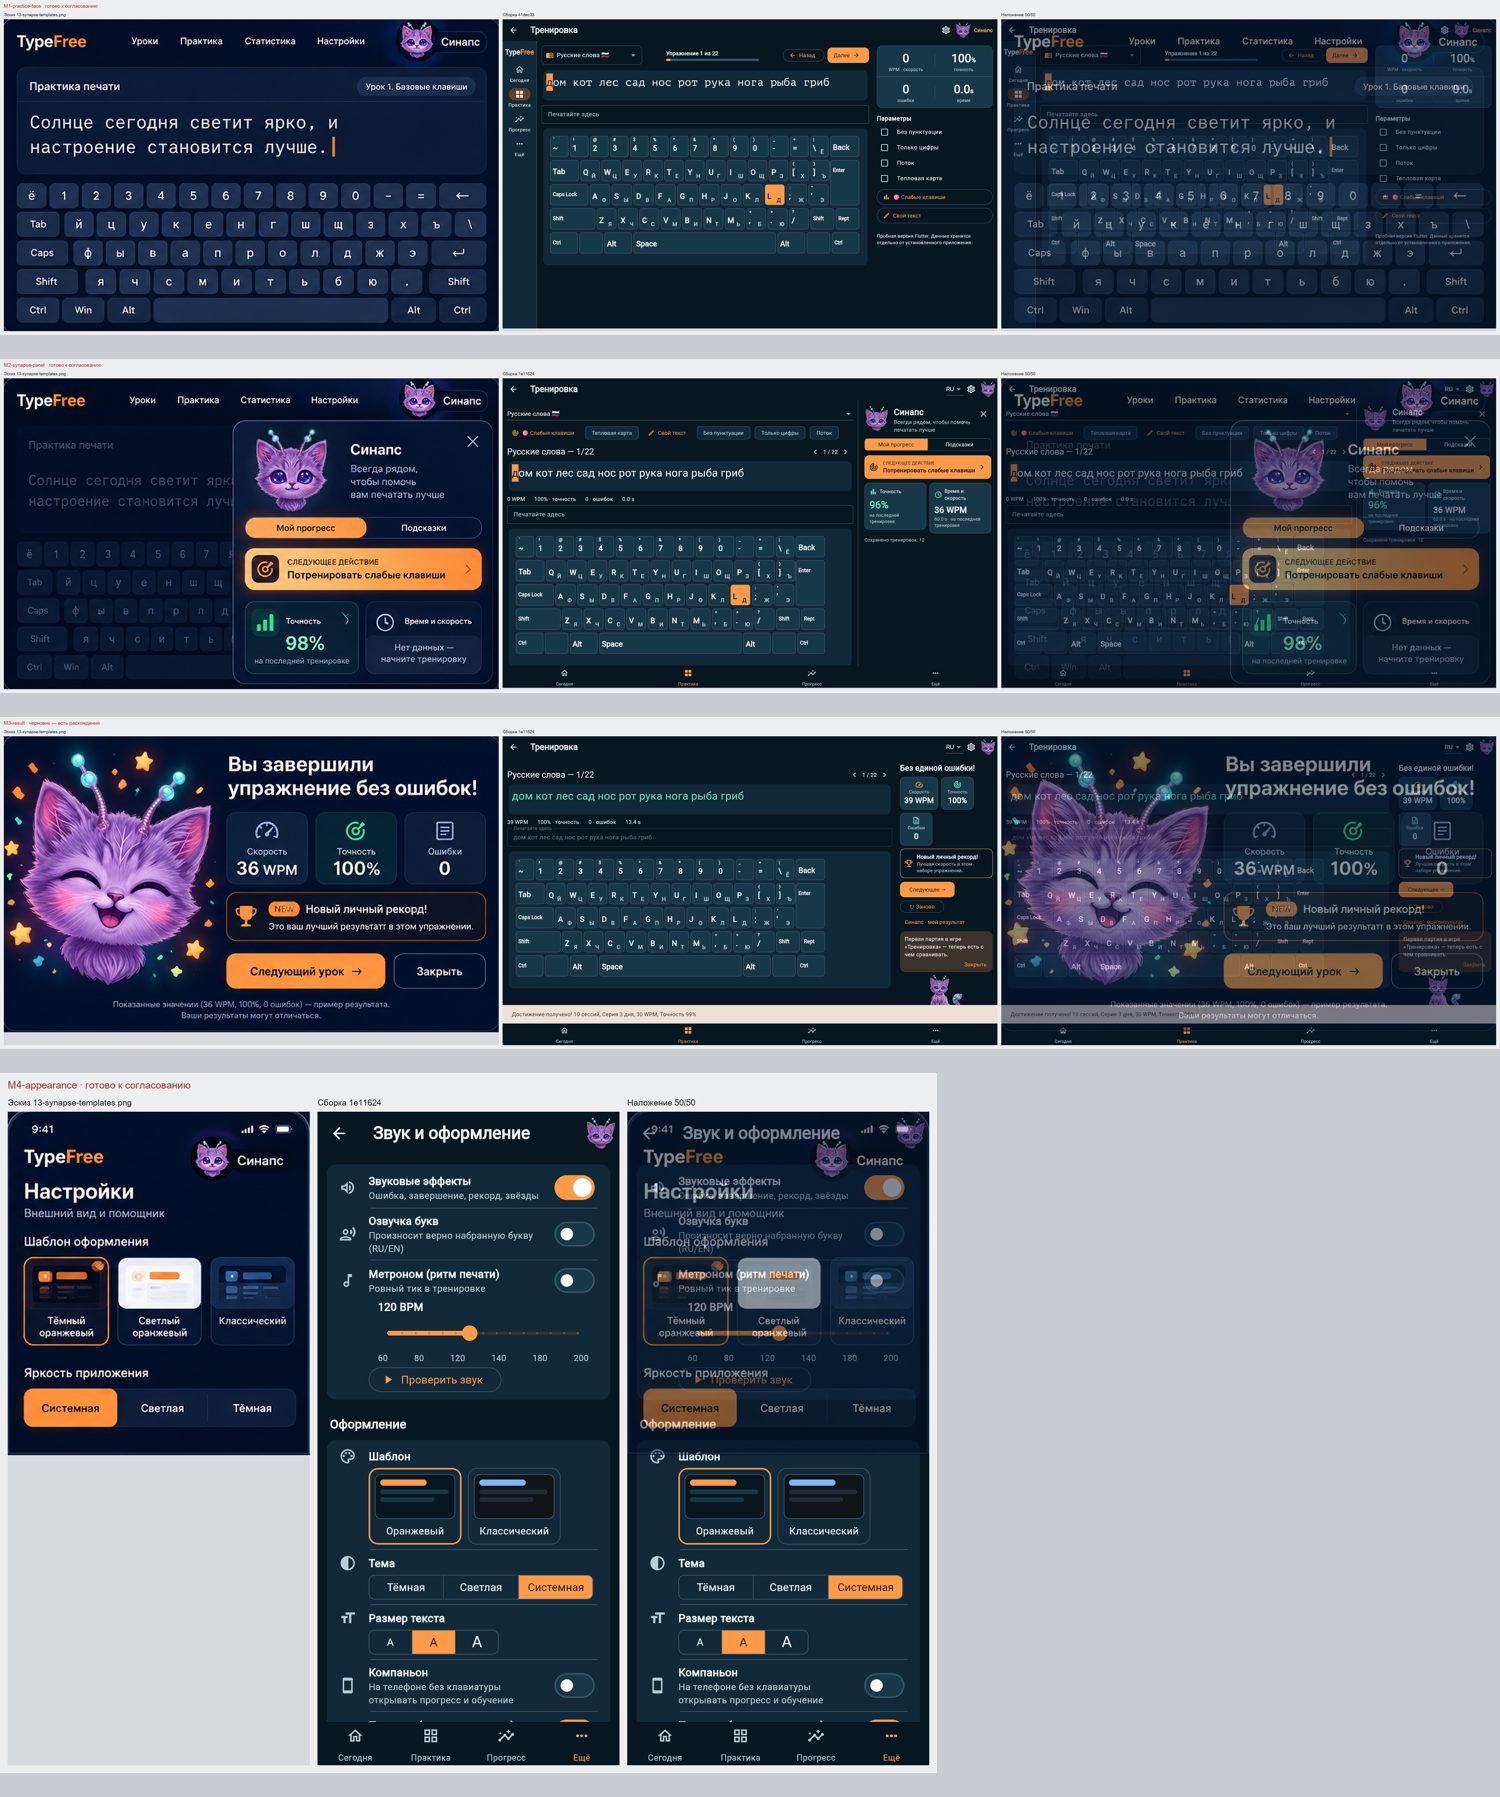
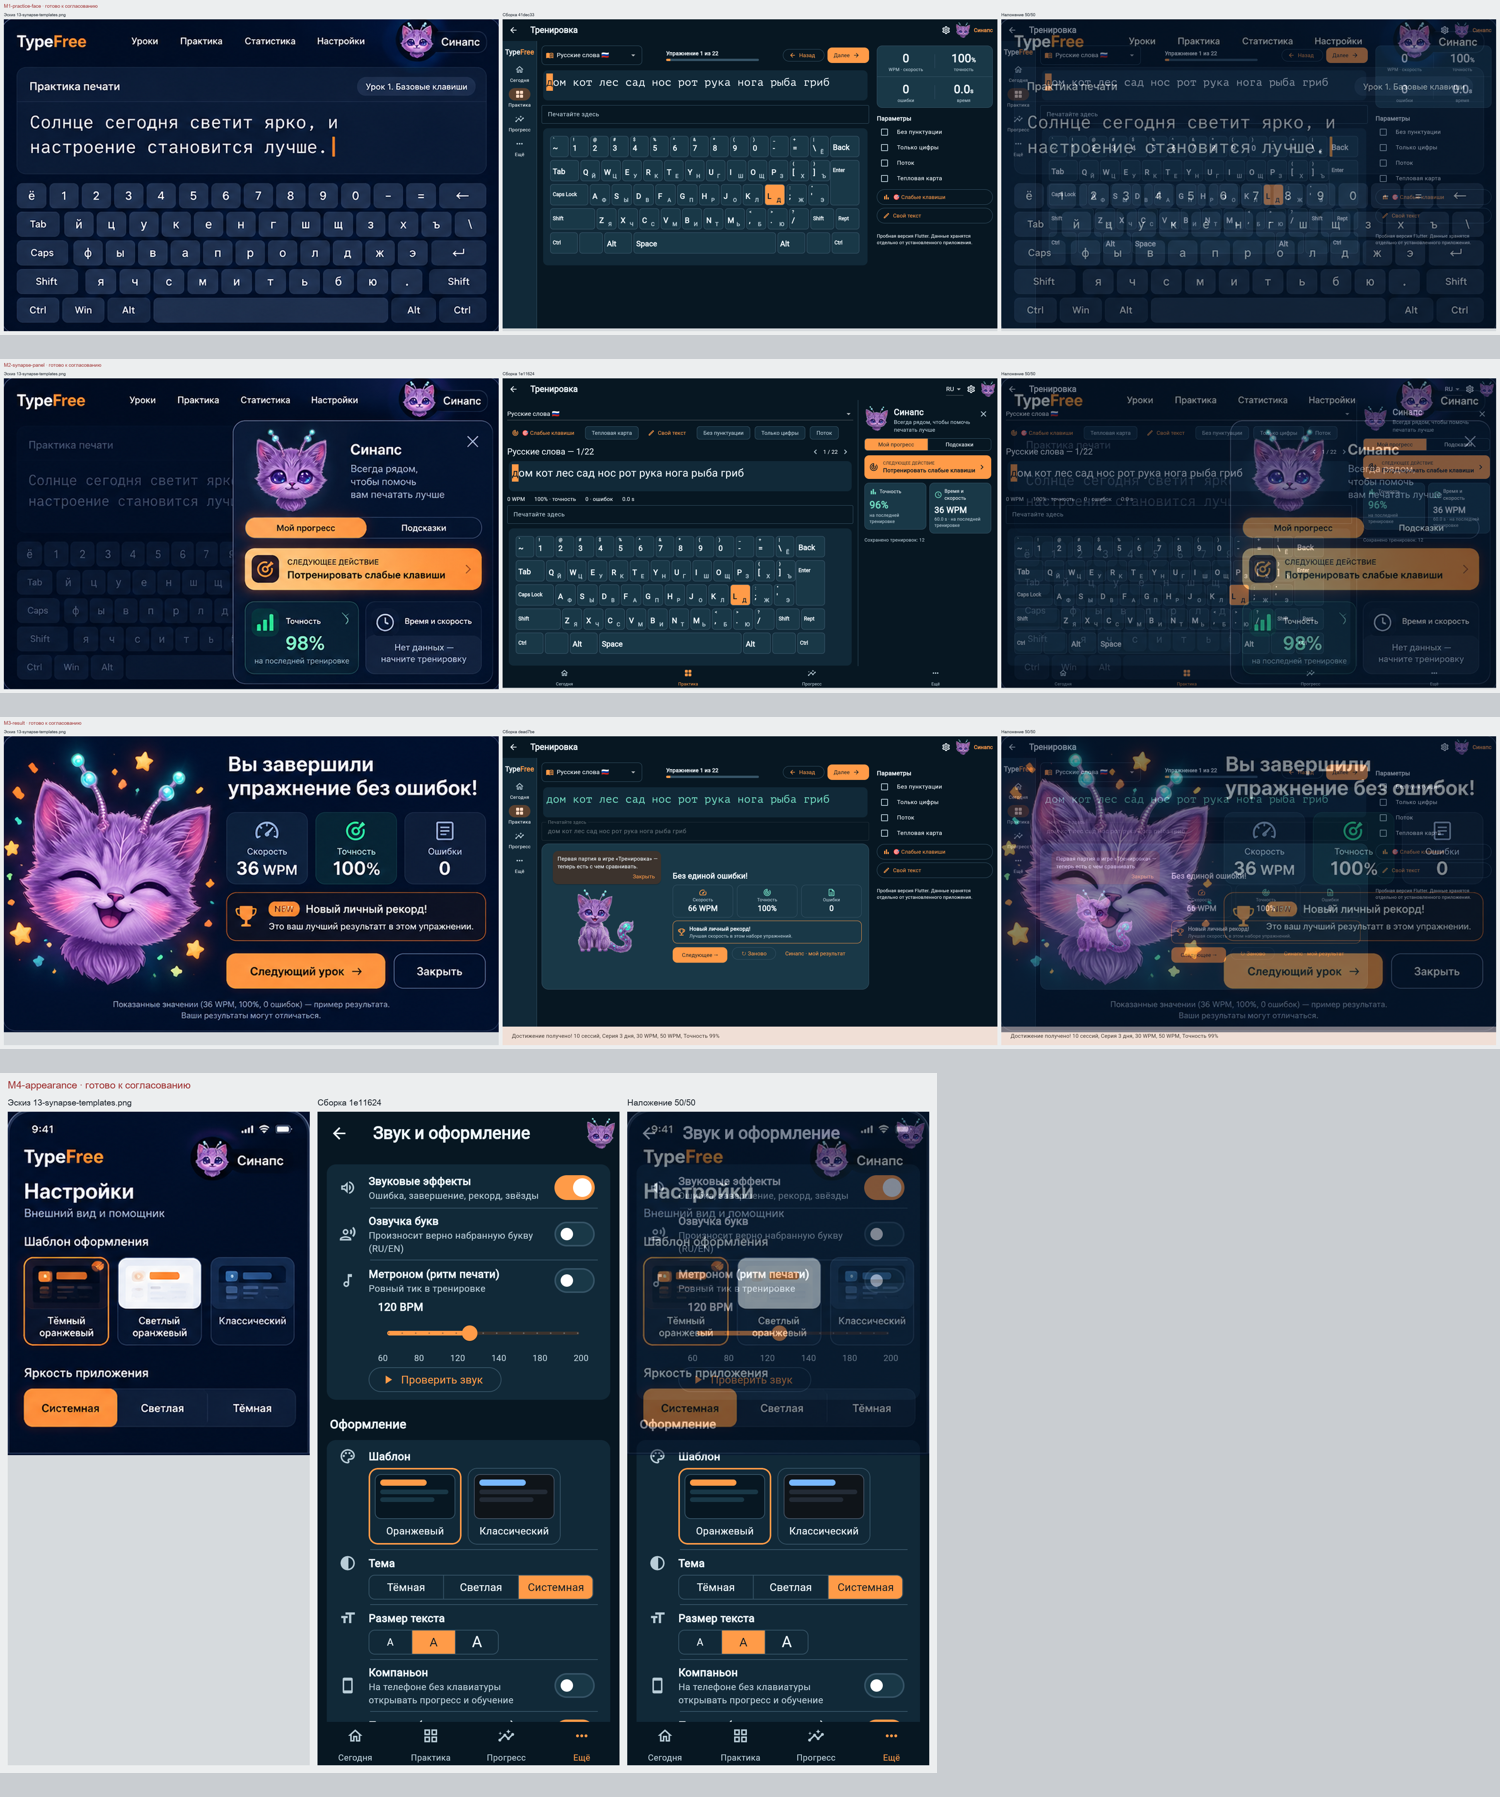
[Claude·MAC] design-acceptance: index after decisions

Changed region(s): [[0.3373, 0.4051, 1.0, 0.5921], [0.8893, 0.4051, 0.92, 0.4363]]

diff --git a/flutter/design-acceptance/INDEX_20261028.md b/flutter/design-acceptance/INDEX_20261028.md
@@ -19,13 +19,16 @@
 | B1-trainer-desktop | черновик — есть расхождения (история) | `a814c43` | [20261028-header-a814c43/B1-trainer-desktop](20261028-header-a814c43/B1-trainer-desktop/REPORT.md) |
 | B1-trainer-desktop | черновик — есть расхождения (история) | `4988a11` | [20261028-draftfix-4988a11/B1-trainer-desktop](20261028-draftfix-4988a11/B1-trainer-desktop/REPORT.md) |
 | B1-trainer-desktop | черновик — есть расхождения (история) | `41dec33` | [20261028-font-41dec33/B1-trainer-desktop](20261028-font-41dec33/B1-trainer-desktop/REPORT.md) |
-| B1-trainer-desktop | черновик — есть расхождения | `badb450` | [20261028-arrows-badb450/B1-trainer-desktop](20261028-arrows-badb450/B1-trainer-desktop/REPORT.md) |
+| B1-trainer-desktop | черновик — есть расхождения (история) | `badb450` | [20261028-arrows-badb450/B1-trainer-desktop](20261028-arrows-badb450/B1-trainer-desktop/REPORT.md) |
+| B1-trainer-desktop | готово к согласованию | `dead7be` | [20261029-decisions-dead7be/B1-trainer-desktop](20261029-decisions-dead7be/B1-trainer-desktop/REPORT.md) |
 | B2-trainer-web | черновик — есть расхождения (история) | `14e83ee` | [20261028-trainer-14e83ee/B2-trainer-web](20261028-trainer-14e83ee/B2-trainer-web/REPORT.md) |
 | B2-trainer-web | черновик — есть расхождения (история) | `a814c43` | [20261028-header-a814c43/B2-trainer-web](20261028-header-a814c43/B2-trainer-web/REPORT.md) |
 | B2-trainer-web | черновик — есть расхождения (история) | `4988a11` | [20261028-draftfix-4988a11/B2-trainer-web](20261028-draftfix-4988a11/B2-trainer-web/REPORT.md) |
-| B2-trainer-web | черновик — есть расхождения | `badb450` | [20261028-arrows-badb450/B2-trainer-web](20261028-arrows-badb450/B2-trainer-web/REPORT.md) |
+| B2-trainer-web | черновик — есть расхождения (история) | `badb450` | [20261028-arrows-badb450/B2-trainer-web](20261028-arrows-badb450/B2-trainer-web/REPORT.md) |
+| B2-trainer-web | готово к согласованию | `dead7be` | [20261029-decisions-dead7be/B2-trainer-web](20261029-decisions-dead7be/B2-trainer-web/REPORT.md) |
 | B3-trainer-landscape | черновик — есть расхождения (история) | `14e83ee` | [20261028-trainer-14e83ee/B3-trainer-landscape](20261028-trainer-14e83ee/B3-trainer-landscape/REPORT.md) |
-| B3-trainer-landscape | черновик — есть расхождения | `ea99bf9` | [20261028-repeat-ea99bf9/B3-trainer-landscape](20261028-repeat-ea99bf9/B3-trainer-landscape/REPORT.md) |
+| B3-trainer-landscape | черновик — есть расхождения (история) | `ea99bf9` | [20261028-repeat-ea99bf9/B3-trainer-landscape](20261028-repeat-ea99bf9/B3-trainer-landscape/REPORT.md) |
+| B3-trainer-landscape | готово к согласованию | `dead7be` | [20261029-decisions-dead7be/B3-trainer-landscape](20261029-decisions-dead7be/B3-trainer-landscape/REPORT.md) |
 | C1-library | готово к согласованию (история) | `dc28454` | [20261028-library-course-dc28454/C1-library](20261028-library-course-dc28454/C1-library/REPORT.md) |
 | C1-library | готово к согласованию | `a814c43` | [20261028-header-a814c43/C1-library](20261028-header-a814c43/C1-library/REPORT.md) |
 | C2-course-map | готово к согласованию (история) | `dc28454` | [20261028-library-course-dc28454/C2-course-map](20261028-library-course-dc28454/C2-course-map/REPORT.md) |
@@ -75,7 +78,8 @@
 | E6-exam-result | черновик — есть расхождения (история) | `a814c43` | [20261028-header-a814c43/E6-exam-result](20261028-header-a814c43/E6-exam-result/REPORT.md) |
 | E6-exam-result | готово к согласованию | `4988a11` | [20261028-draftfix-4988a11/E6-exam-result](20261028-draftfix-4988a11/E6-exam-result/REPORT.md) |
 | F1-progress | черновик — есть расхождения (история) | `0d5b808` | [20261028-progress-0d5b808/F1-progress](20261028-progress-0d5b808/F1-progress/REPORT.md) |
-| F1-progress | черновик — есть расхождения | `a814c43` | [20261028-header-a814c43/F1-progress](20261028-header-a814c43/F1-progress/REPORT.md) |
+| F1-progress | черновик — есть расхождения (история) | `a814c43` | [20261028-header-a814c43/F1-progress](20261028-header-a814c43/F1-progress/REPORT.md) |
+| F1-progress | готово к согласованию | `dead7be` | [20261029-decisions-dead7be/F1-progress](20261029-decisions-dead7be/F1-progress/REPORT.md) |
 | F1-progress-empty | готово к согласованию | `0d5b808` | [20261028-progress-0d5b808/F1-progress-empty](20261028-progress-0d5b808/F1-progress-empty/REPORT.md) |
 | F2-achievements | готово к согласованию (история) | `763e4f9` | [20261028-achievements-763e4f9/F2-achievements](20261028-achievements-763e4f9/F2-achievements/REPORT.md) |
 | F2-achievements | черновик — есть расхождения (история) | `a814c43` | [20261028-header-a814c43/F2-achievements](20261028-header-a814c43/F2-achievements/REPORT.md) |
@@ -108,12 +112,13 @@
 | M1-practice-face | черновик — есть расхождения (история) | `4988a11` | [20261028-draftfix-4988a11/M1-practice-face](20261028-draftfix-4988a11/M1-practice-face/REPORT.md) |
 | M1-practice-face | готово к согласованию | `41dec33` | [20261028-font-41dec33/M1-practice-face](20261028-font-41dec33/M1-practice-face/REPORT.md) |
 | M2-synapse-panel | готово к согласованию | `1e11624` | [20261028-synapse-1e11624/M2-synapse-panel](20261028-synapse-1e11624/M2-synapse-panel/REPORT.md) |
-| M3-result | черновик — есть расхождения | `1e11624` | [20261028-synapse-1e11624/M3-result](20261028-synapse-1e11624/M3-result/REPORT.md) |
+| M3-result | черновик — есть расхождения (история) | `1e11624` | [20261028-synapse-1e11624/M3-result](20261028-synapse-1e11624/M3-result/REPORT.md) |
+| M3-result | готово к согласованию | `dead7be` | [20261029-decisions-dead7be/M3-result](20261029-decisions-dead7be/M3-result/REPORT.md) |
 | M4-appearance | готово к согласованию | `1e11624` | [20261028-synapse-1e11624/M4-appearance](20261028-synapse-1e11624/M4-appearance/REPORT.md) |
 
 ## Покрытие всех 71 состояний атласа
 
-Итог: готово — 37 · нет — 23 · черновик — 11
+Итог: готово — 42 · нет — 23 · черновик — 6
 
 | состояние | что | статус / причина |
 |---|---|---|
@@ -123,9 +128,9 @@
 | A4 | Компаньон | готово к согласованию · [20261028-companion-d09c1b4/A4-companion](20261028-companion-d09c1b4/A4-companion/REPORT.md) |
 | A5 | Ещё | черновик — есть расхождения · [20261028-header-a814c43/A5-more](20261028-header-a814c43/A5-more/REPORT.md) |
 | A6 | Профиль и язык | черновик — есть расхождения · [20261028-menus-9d6917f/A6-profile-language](20261028-menus-9d6917f/A6-profile-language/REPORT.md) |
-| B1 | Тренировка desktop | черновик — есть расхождения · [20261028-arrows-badb450/B1-trainer-desktop](20261028-arrows-badb450/B1-trainer-desktop/REPORT.md) |
-| B2 | Полная страница тренажёра web | черновик — есть расхождения · [20261028-arrows-badb450/B2-trainer-web](20261028-arrows-badb450/B2-trainer-web/REPORT.md) |
-| B3 | Тренажёр landscape / внешняя клавиатура | черновик — есть расхождения · [20261028-repeat-ea99bf9/B3-trainer-landscape](20261028-repeat-ea99bf9/B3-trainer-landscape/REPORT.md) |
+| B1 | Тренировка desktop | готово к согласованию · [20261029-decisions-dead7be/B1-trainer-desktop](20261029-decisions-dead7be/B1-trainer-desktop/REPORT.md) |
+| B2 | Полная страница тренажёра web | готово к согласованию · [20261029-decisions-dead7be/B2-trainer-web](20261029-decisions-dead7be/B2-trainer-web/REPORT.md) |
+| B3 | Тренажёр landscape / внешняя клавиатура | готово к согласованию · [20261029-decisions-dead7be/B3-trainer-landscape](20261029-decisions-dead7be/B3-trainer-landscape/REPORT.md) |
 | C1 | Библиотека плейлистов | готово к согласованию · [20261028-header-a814c43/C1-library](20261028-header-a814c43/C1-library/REPORT.md) |
 | C2 | Курс печати: карта | готово к согласованию · [20261028-header-a814c43/C2-course-map](20261028-header-a814c43/C2-course-map/REPORT.md) |
 | C3 | Урок | готово к согласованию · [20261028-repeat-ea99bf9/C3-lesson](20261028-repeat-ea99bf9/C3-lesson/REPORT.md) |
@@ -144,7 +149,7 @@
 | E4 | Тест печати: параметры | готово к согласованию · [20261028-header-a814c43/E4-exam-setup](20261028-header-a814c43/E4-exam-setup/REPORT.md) |
 | E5 | Тест печати: ввод | готово к согласованию · [20261028-header-a814c43/E5-exam-run](20261028-header-a814c43/E5-exam-run/REPORT.md) |
 | E6 | Тест печати: результат | готово к согласованию · [20261028-draftfix-4988a11/E6-exam-result](20261028-draftfix-4988a11/E6-exam-result/REPORT.md) |
-| F1 | Прогресс / пустое состояние | черновик — есть расхождения · [20261028-header-a814c43/F1-progress](20261028-header-a814c43/F1-progress/REPORT.md) |
+| F1 | Прогресс / пустое состояние | готово к согласованию · [20261029-decisions-dead7be/F1-progress](20261029-decisions-dead7be/F1-progress/REPORT.md) |
 | F2 | Достижения | готово к согласованию · [20261028-draftfix-4988a11/F2-achievements](20261028-draftfix-4988a11/F2-achievements/REPORT.md) |
 | F3 | Настройки ввода | готово к согласованию · [20261028-settings-2e40bf5/F3-input-settings](20261028-settings-2e40bf5/F3-input-settings/REPORT.md) |
 | F4 | Звук и оформление | готово к согласованию · [20261028-settings-f4-ad81586/F4-sound-appearance](20261028-settings-f4-ad81586/F4-sound-appearance/REPORT.md) |
@@ -186,7 +191,7 @@
 | L6 | Завершение сопровождения / revoke | нет пакета — Создание профиля преподавателя, приглашения, группы, отзыв. Та же причина, что G/H. |
 | M1 | Практика с лицом Синапса сверху | готово к согласованию · [20261028-font-41dec33/M1-practice-face](20261028-font-41dec33/M1-practice-face/REPORT.md) |
 | M2 | Панель помощника | готово к согласованию · [20261028-synapse-1e11624/M2-synapse-panel](20261028-synapse-1e11624/M2-synapse-panel/REPORT.md) |
-| M3 | Реакция на фактический результат | черновик — есть расхождения · [20261028-synapse-1e11624/M3-result](20261028-synapse-1e11624/M3-result/REPORT.md) |
+| M3 | Реакция на фактический результат | готово к согласованию · [20261029-decisions-dead7be/M3-result](20261029-decisions-dead7be/M3-result/REPORT.md) |
 | M4 | Оформление и настройки | готово к согласованию · [20261028-synapse-1e11624/M4-appearance](20261028-synapse-1e11624/M4-appearance/REPORT.md) |
 
 Пакеты Codex 25–26.10 (свой формат):

diff --git a/flutter/design-acceptance/PANELS_20261028/README.md b/flutter/design-acceptance/PANELS_20261028/README.md
@@ -8,7 +8,7 @@
 - A4 · готово к согласованию · 20261028-companion-d09c1b4/A4-companion
 - A5 · черновик — есть расхождения · 20261028-header-a814c43/A5-more
 - A6 · черновик — есть расхождения · 20261028-menus-9d6917f/A6-profile-language
-- F1 · черновик — есть расхождения · 20261028-header-a814c43/F1-progress
+- F1 · готово к согласованию · 20261029-decisions-dead7be/F1-progress
 - F2 · готово к согласованию · 20261028-draftfix-4988a11/F2-achievements
 - F3 · готово к согласованию · 20261028-settings-2e40bf5/F3-input-settings
 - F4 · готово к согласованию · 20261028-settings-f4-ad81586/F4-sound-appearance
@@ -20,11 +20,11 @@
 - I6 · готово к согласованию · 20261028-repeat-ea99bf9/I6-light-practice
 - M1 · готово к согласованию · 20261028-font-41dec33/M1-practice-face
 - M2 · готово к согласованию · 20261028-synapse-1e11624/M2-synapse-panel
-- M3 · черновик — есть расхождения · 20261028-synapse-1e11624/M3-result
+- M3 · готово к согласованию · 20261029-decisions-dead7be/M3-result
 - M4 · готово к согласованию · 20261028-synapse-1e11624/M4-appearance
-- B1 · черновик — есть расхождения · 20261028-arrows-badb450/B1-trainer-desktop
-- B2 · черновик — есть расхождения · 20261028-arrows-badb450/B2-trainer-web
-- B3 · черновик — есть расхождения · 20261028-repeat-ea99bf9/B3-trainer-landscape
+- B1 · готово к согласованию · 20261029-decisions-dead7be/B1-trainer-desktop
+- B2 · готово к согласованию · 20261029-decisions-dead7be/B2-trainer-web
+- B3 · готово к согласованию · 20261029-decisions-dead7be/B3-trainer-landscape
 - C1 · готово к согласованию · 20261028-header-a814c43/C1-library
 - C2 · готово к согласованию · 20261028-header-a814c43/C2-course-map
 - C3 · готово к согласованию · 20261028-repeat-ea99bf9/C3-lesson
